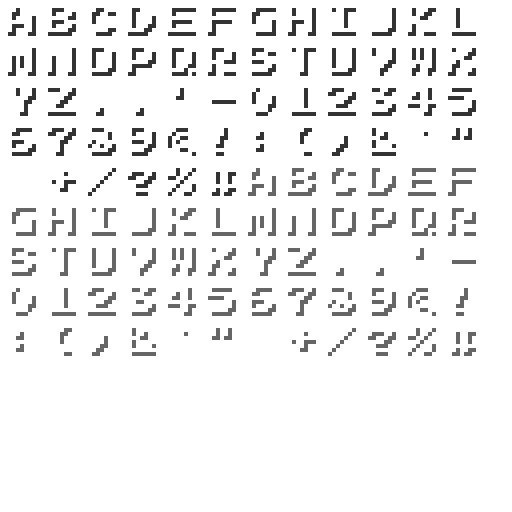
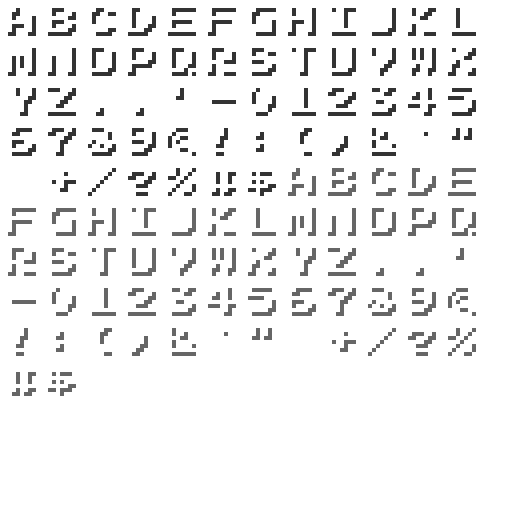
Show the score as money: the crews are mercenaries, paid in dollars
The HUD reads $038400, the pops +$2000, and the shop's wallet and
prices are in dollars. The dollar sign is baked into both of the
preview's fonts.

diff --git a/tools/font3d_bake.py b/tools/font3d_bake.py
@@ -34,7 +34,7 @@ TTF = 'assets/fonts/PressStart2P-Regular.ttf'
 PNG = 'assets/images/font3d.png'
 XML = 'assets/images/font3d.xml'
 # What it holds: the game's CHARS (Main.CHARS) and what that font has not got.
-CHARS = "ABCDEFGHIJKLMNOPQRSTUVWXYZ.,'-0123456789©!:()&`\" +/?%#"
+CHARS = "ABCDEFGHIJKLMNOPQRSTUVWXYZ.,'-0123456789©!:()&`\" +/?%#$"
 SCALE = 4
 CELL = 8 * SCALE
 # Clear round each cell: the smoothed and modern fonts (Level3DFont.filter) sample it
@@ -48,7 +48,7 @@ NAMES = {
     '.': 'period', ',': 'comma', "'": 'apostrophe', '!': 'exclamation', '-': 'hyphen',
     '©': 'copyright', ' ': 'space', ':': 'colon', '(': 'left-paren', ')': 'right-paren',
     '&': 'ampersand', '`': 'left-quote', '"': 'right-quote', '+': 'plus', '/': 'slash',
-    '?': 'question', '%': 'percent', '#': 'hash',
+    '?': 'question', '%': 'percent', '#': 'hash', '$': 'dollar',
 }
 
 

diff --git a/docs/preview3d-options.md b/docs/preview3d-options.md
@@ -80,7 +80,7 @@ godot --path . --windowed --resolution 1280x720 src/game3d/level3d_preview.tscn 
 | `--destroy <имя>,…` | Взорвать здания на старте (имена — id их объектов в файле уровня: `Barracks`, `Hangar_E`, `Gate`…) |
 | `--weapon <0–3>` | Оружие: 0 граната, 1–3 ракета и два её улучшения |
 | `--pows <n>` | Столько пленных на борту у каждого игрока |
-| `--score <n>` | Начальный счёт — он же деньги магазина; жизней очки больше не дают |
+| `--score <n>` | Начальные деньги (на экране — `$`): их тратят в магазине; жизней они больше не дают |
 | `--round <n>` | Начинать каждый забег (и по R, и с титула) с этого круга этапа; со второго — враги из списка hard |
 | `--hold k@<от>-<до>` | Как другие клавиши `--hold`: держать клавишу устройства (нитро, мины, авиаудар) |
 | `--shop` | Сразу открыть магазин между кругами поверх этапа, как после победы над боссом |

diff --git a/docs/shop-plan.md b/docs/shop-plan.md
@@ -21,7 +21,12 @@
 ## 0. Решения
 
 - **Очки — это валюта.** Один ресурс, отдельного счёта-рекорда нет: покупка
-  уменьшает очки на HUD.
+  уменьшает очки на HUD. На экране это деньги: экипажи — наёмники, им платят
+  за врагов и пленных, и тратят они это в магазине. HUD показывает `$038400`
+  (шесть цифр, как счёт в игре, — счётчик не меняет ширину, как деньги в
+  Chinatown Wars, `Level3DHud.money`), всплывающие суммы — `+$2000`, магазин —
+  кошелёк и цены в долларах. Знак `$` добавлен в оба шрифта превью
+  (`tools/font3d_bake.py`).
 - **Жизнь за очки отменяется.** Сейчас жизнь даётся при 20 000 и затем каждые
   50 000 (`_add_points` в `level3d_preview.gd`, как `PlayerState.add_points`);
   вместо этого жизни покупаются в магазине. Это отклонение от оригинала, его
